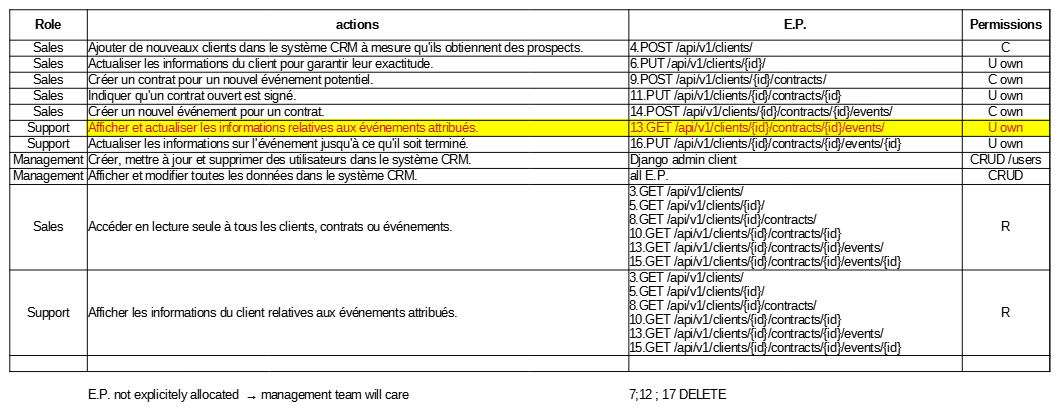
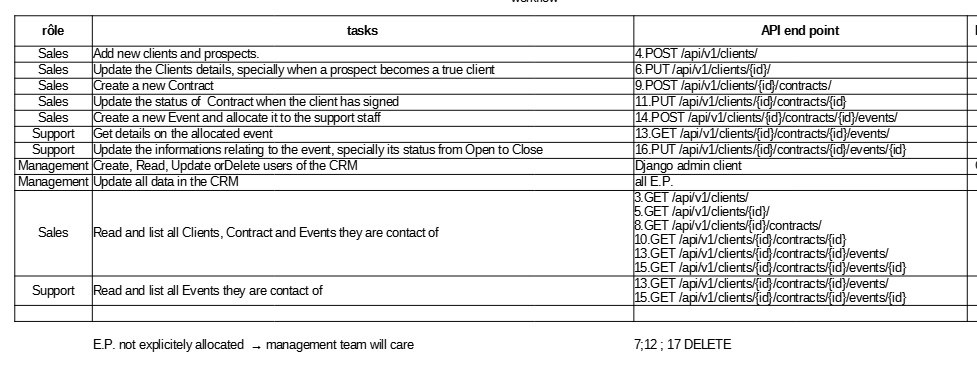
doc: add end points at postman

diff --git a/README.md b/README.md
@@ -7,6 +7,7 @@
 
 - Table of Content
   - [Disclaimer](#disclaimer)
+  - [Introduction](#introduction)
   - [Quick Start](#quick-start)
   - [Security and Privacy](#security-and-privacy)
   - [Epic Events API documentation](#Epic-Events-API-documentation)
@@ -30,18 +31,19 @@ The additionnal code follows "CC BY-SA ".
 
 ---
 
-## Epic Events API documentation
-
-### Introduction
+## Introduction
 
 Epic Events does host the funniest and greatest parties in this quarter of the Universe. We manage the full event to ease all the tedious preparation work for our Very Important Clients!
 
-Our I.T department has just improved and secured our internal CRM to support our Customer's and our own business.
+For Managing its Customer Relations, Epic Events uses an internal CRM solution which allows to create & deal with Users, Clients, Contracts and follow Events.
+
+
+Our I.T department has just improved and secured the internal CRM solution to better support our Customer's and our own business.
 For our partners to develop mobile front-end applications as well as for our own staff, we release our API Rest server.
 
 You will find here guidance and a brief introduction on how to install and use our secured API server.
 
-**Have fun, Dev!**
+**Have fun, Devs!**
 
 
 
@@ -147,7 +149,6 @@ In order to install and use locally the Epic Events CRM back-end API server, ass
     |support_team |		      |    RL	  |    RL	 |    RL     |  
     |supp_contact |			  |     	  |          |   own UD  |  
     |managmnt_team|	  CRUDL   |	  CRUDL	  |  CRUDL	 |  CRUDL    |  
-    |is_staff     |	          |	    RL	  |    RL	 |    RL     |  
   
     For instance, creating user or clients cannot be done thru our exposed back-end API server but need to use a dedicated Admin front-end whose access is strongly restricted.  
       
@@ -158,26 +159,67 @@ In order to install and use locally the Epic Events CRM back-end API server, ass
     Finally the code itself is secured by reducing the exposure of secrets to public repositories,   
 
 
-### Gestion des secrets  
+### Secret's management
 
-Django utilise un "secret" pour générer ses certificats et recommande de garder cette clé secrète. 
-Nous utilisons le paquet python-decouple pour remplacer les clés de secret par leur valeur dans le fichier settings.py :
-Le fait de stocker les secrets dans un fichier .env évite de le "committer" par accident sur un dépôt centralisé grâce au paramétrage de notre .gitignore.
+    Django use "secret" to generate its certificates and advises to keep this key secret.
+    Epinc Events uses the python-decouplemodule to replace the secret key's values of the settings.py file by their decouple link :
+    Storing actual secret in a .env file make its possible to keep them local provided one does exclude the .env file from the commits by regitering it in .gitignore.  
+  
+    For learners we, for ones allowed the commit of this (fake) .env file.  
 
-S'agissant ici d'un exercice pédagogique, nous voulons permettre d'utiliser notre code source et éventuelles données tout en respectant les bonnes pratiques. C'est pourquoi nous autorisons exceptionnellement le commit du fichier .env.
+    ```py
+    from decouple import config
+    ...
+    SECRET_KEY = config("SECRET_KEY")
 
-```py
-from decouple import config
-...
-SECRET_KEY = config("SECRET_KEY")
-
-```  
+    ```  
 
 ## Epic Events API documentation
 
+
+Postman documentation link [epicevents_ap](https://documenter.getpostman.com/view/19150435/UzQvt51y)
+
 ![](img/p12-end-points.png)  
 
-Postman documentation
+### Business workflow
+
+We could suggest the following workflow to support an event:
+
+1. Sales adds the new prospect. 
+2. Sales updates the prospect status of becoming a true client
+3. Sales create a new Contract 
+4. Sales updates the status of Contract when the client has signed
+5. Sales creates a new Event and allocates it to the support staff
+6. Support gets details of the newly allocated event
+7. Support updates the event status from Open to Close
+8. Management Create, Read, Update or Delete users when required to.
+
+The application structure includes basically 3 levels of embedded models : Clients, Contracts, Events.
+
+For these, the basic CRUD methods are provided thru the available end-points.
+
+The permissions are granted following the user's role in the workflow:
+
+1. Only authenticated user can acces end-points.
+2. Only staff can access the admin site.
+3. Only Superuser can create a superuser
+4. Only Sales creates from Client, Contract, Event
+5. Only Support updates the Event
+
+Authentication is managed in the has_permission method of the permission class as well as with jwt tokens.
+
+If you need mock user data for the above role segragation, here is what we suggest:
+
+![](img/p12-sample-data.png)  
+  
+(A) Support ; (M) Management ; (S) Sales.
+
+Two front ends app are needed for the workflow:
+* the provided (and hidden) Django Admin
+* the Postman client side.
+
+For the latter, remember when checking User permissions that "admin-oc" is also the Epic Events API superuser.
+
 
 ## Tests passed  
 
